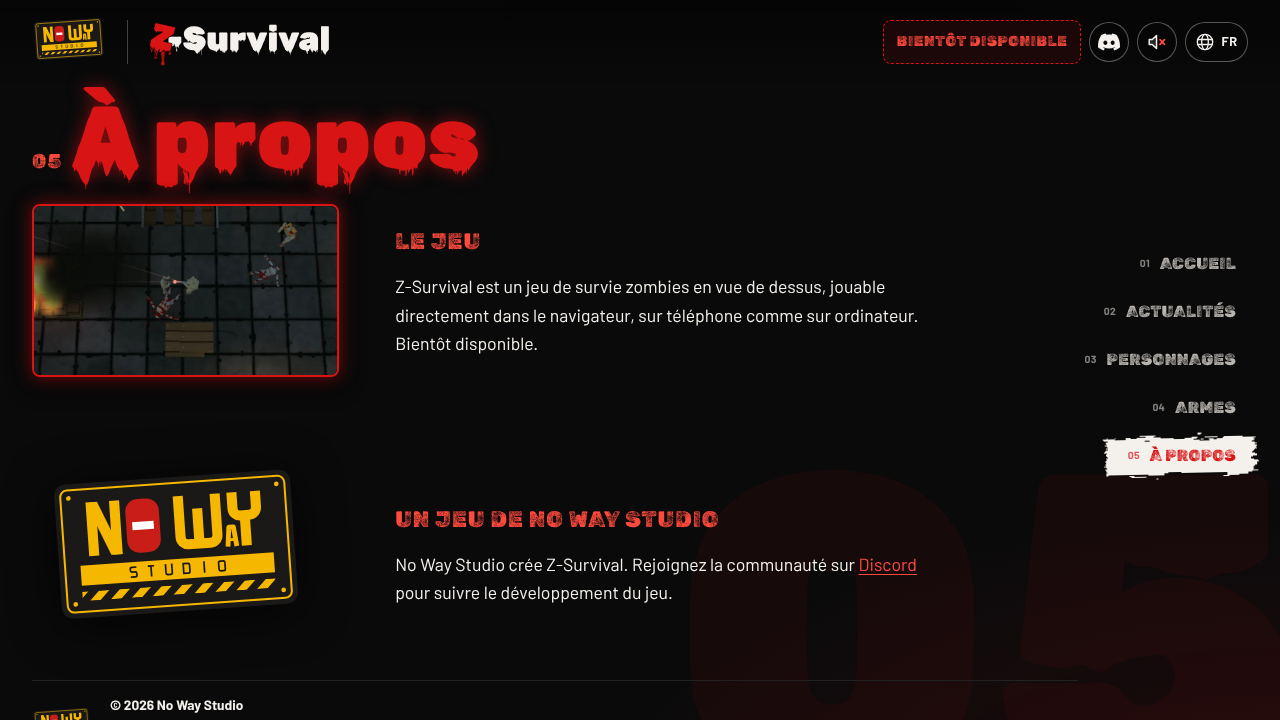
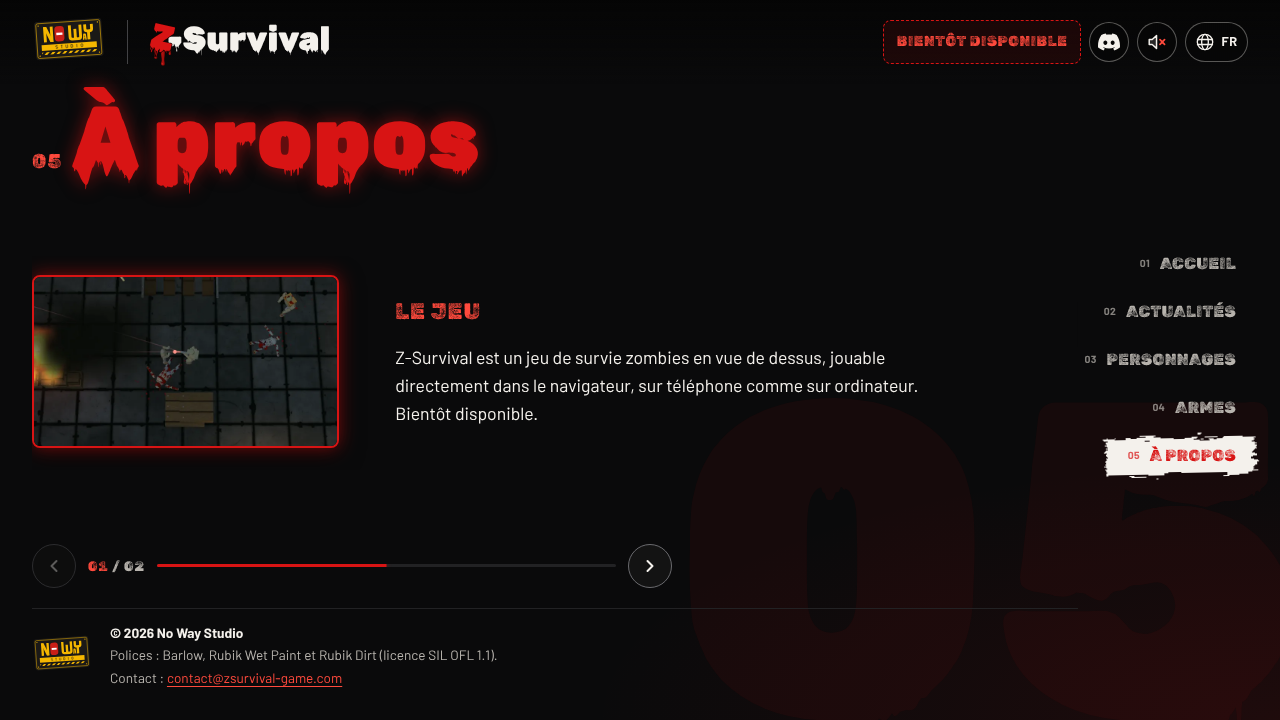
À propos sur ordinateur à écran bas : carrousel (molette) (#85)
Retour du propriétaire : la molette vers le haut ramenait parfois vers le bas.
Sur un écran d'ordinateur bas (fenêtre de 860 px de haut ou moins, la plupart
des portables), À propos dépassait de l'écran (jusqu'à 230 px), et
l'aimantation des sections se trompait de sens. Sur ces écrans, À propos prend
le carrousel du téléphone (flèches et « 01 / 02 », un bloc à la fois) ; au-delà
de 860 px de haut, les blocs restent l'un sous l'autre. Titre et image un peu
plus petits sous 660 px de haut.

- verifier-lot-4a : carrousel à 1366 × 768, blocs empilés à 1440 × 900.
- Docs : CLAUDE.md, récapitulatif.

Claude-Session: https://claude.ai/code/session_01MNJ5shdo7JVCDXMyGa3rKF

diff --git a/css/principal.css b/css/principal.css
@@ -451,7 +451,7 @@
   .arme-stats { flex: 1; align-content: center; gap: 18px; }
 
   .section-about .section-interieur { justify-content: center; }
-  .about-blocs { display: flex; flex-direction: column; gap: 72px; margin: auto 0; padding: 0; overflow: visible; }
+  .about-blocs { margin-block: auto; }
   .about-corps { flex-direction: row; align-items: center; gap: 56px; }
   /* Même colonne pour l'image du jeu et le logo du studio : les deux textes s'alignent. */
   .about-visuel { flex: none; display: flex; justify-content: center; width: clamp(240px, 24vw, 340px); }
@@ -463,6 +463,21 @@
   .pied { margin-top: 0; }
   .pied-studio { width: 64px; }
   .pied-texte { font-size: 0.85rem; }
+}
+
+/* Ordinateur à écran haut : les deux blocs l'un sous l'autre (le jeu au-dessus du studio). Écran plus bas : À propos dépasserait de
+   l'écran, et l'aimantation des sections ramenait alors parfois dans le mauvais sens à la molette (retour du propriétaire) : on garde le
+   carrousel du téléphone (le studio à droite du jeu, flèches et « 01 / 02 »), et la section tient dans l'écran. */
+@media (min-width: 900px) and (min-height: 861px) {
+  .about-blocs { display: flex; flex-direction: column; gap: 72px; margin: auto 0; padding: 0; overflow: visible; }
+}
+@media (min-width: 900px) and (max-height: 860px) {
+  .about-carrousel:not([hidden]) { display: flex; max-width: 40rem; }
+  .about-blocs { margin-inline: 0; padding-inline: 0; scroll-padding: 0; grid-auto-columns: 100%; gap: 32px; }
+}
+@media (min-width: 900px) and (max-height: 660px) {
+  .section-about .about-visuel { width: 240px; }
+  .section-about .section-titre { font-size: 3.6rem; }
 }
 
 /* Écrans bas (téléphone en paysage) : on resserre. */

diff --git a/CLAUDE.md b/CLAUDE.md
@@ -73,7 +73,7 @@ Adresse du site : **https://zsurvival-game.com/** (sans `www`, qui y redirige ; 
   Personnages et Armes :
   contenu provisoire atténué et inerte sous un encart « Prochainement » (« Coming soon » en anglais). Globe de langue aussi
   dans l'en-tête ; « Bientôt disponible », lien Discord (https://discord.gg/4bBRJNzwwB, logo en SVG, nouvel onglet), bouton de son et globe en haut à droite de l'accueil comme dans l'en-tête (About us : ligne sous le logo du studio et texte modifiables depuis l'admin, `js/a-propos.js` ; grand titre fixe ; logo animé du studio rejoué à chaque arrivée,
-  puis pied de page). À propos a **deux blocs de même forme** (image, titre, texte) : le jeu (clip du vrai jeu en boucle, lot 4b) au-dessus du studio (sur téléphone : carrousel horizontal, le studio à droite, pour que la section tienne dans l'écran) ;
+  puis pied de page). À propos a **deux blocs de même forme** (image, titre, texte) : le jeu (clip du vrai jeu en boucle, lot 4b) au-dessus du studio (sur téléphone et sur un écran d'ordinateur de 860 px de haut ou moins : carrousel horizontal, le studio à droite, pour que la section tienne dans l'écran) ;
   titres et textes des deux blocs modifiables depuis l'admin (lot 3e : pages `a-propos-jeu` et `a-propos` du serveur ; par défaut
   `about.jeu.*`, `studio.signature`, `about.texte`). En-tête et navigation cachés sur l'accueil.
   Tête de page : titre et description français (= `meta.*`), aperçu de partage Open Graph / Twitter Card (titre et description modifiables

diff --git a/Docs/lots/recapitulatif.md b/Docs/lots/recapitulatif.md
@@ -165,6 +165,10 @@ Dépôt : `Nowyyy/Z-Survival-Website` · Bilans détaillés : un fichier par lot
   #81 et #82 annulés. Ordinateur inchangé. Un texte d'À propos beaucoup plus long (admin) pourrait de nouveau dépasser de l'écran.
 - **Pastille « Défiler » retirée** (dégradé et flèche en bas des sections plus hautes que l'écran), à la demande du propriétaire : À propos
   tient maintenant dans l'écran sur téléphone. Les touches du clavier parcourent toujours une section haute avant de passer à la voisine.
+- **Molette qui ramenait parfois vers le bas** (retour du propriétaire, ordinateur) : sur un écran bas (fenêtre de 860 px de haut ou moins,
+  la plupart des portables), À propos dépassait de l'écran (jusqu'à 230 px), et l'aimantation des sections se trompait de sens. Sur ces
+  écrans, À propos prend aussi le carrousel (flèches et « 01 / 02 ») ; sur un écran plus haut, les blocs restent l'un sous l'autre. Toutes
+  les sections tiennent dans l'écran à partir de 600 px de haut (Personnages dépasse encore un peu en dessous).
 
 ---
 
